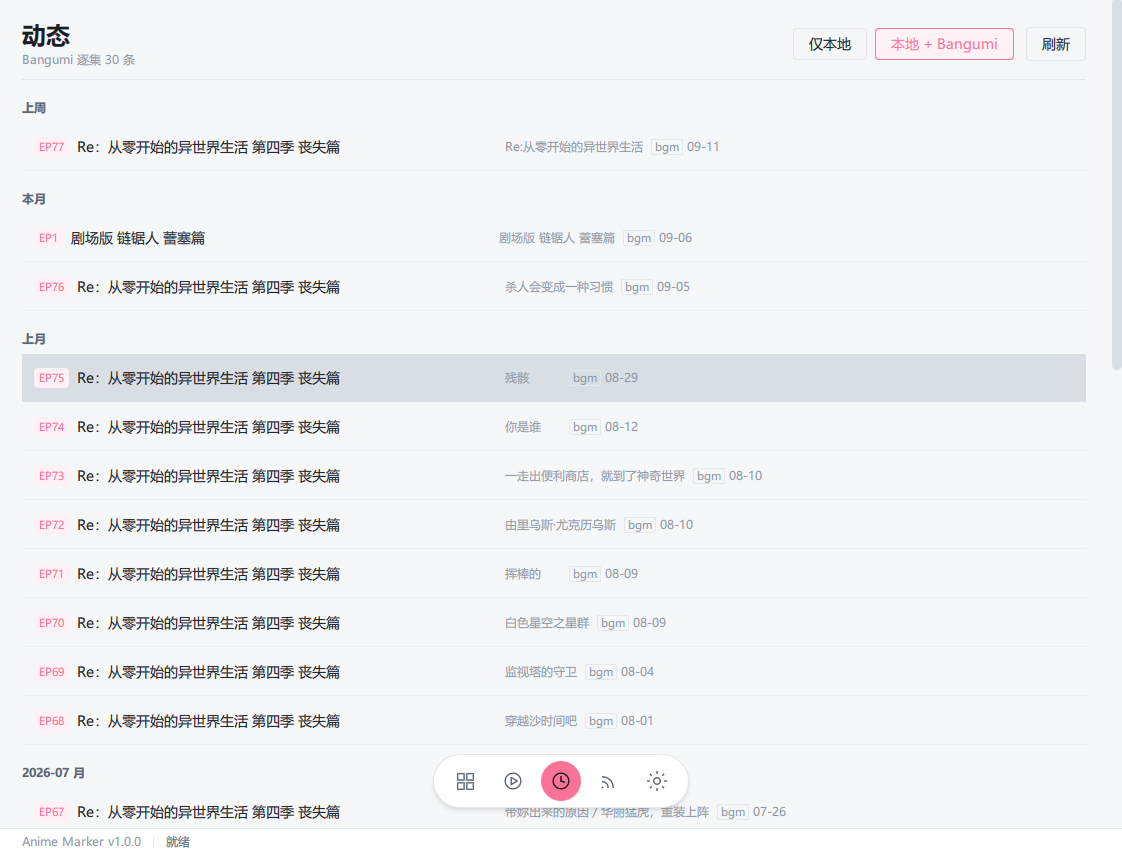
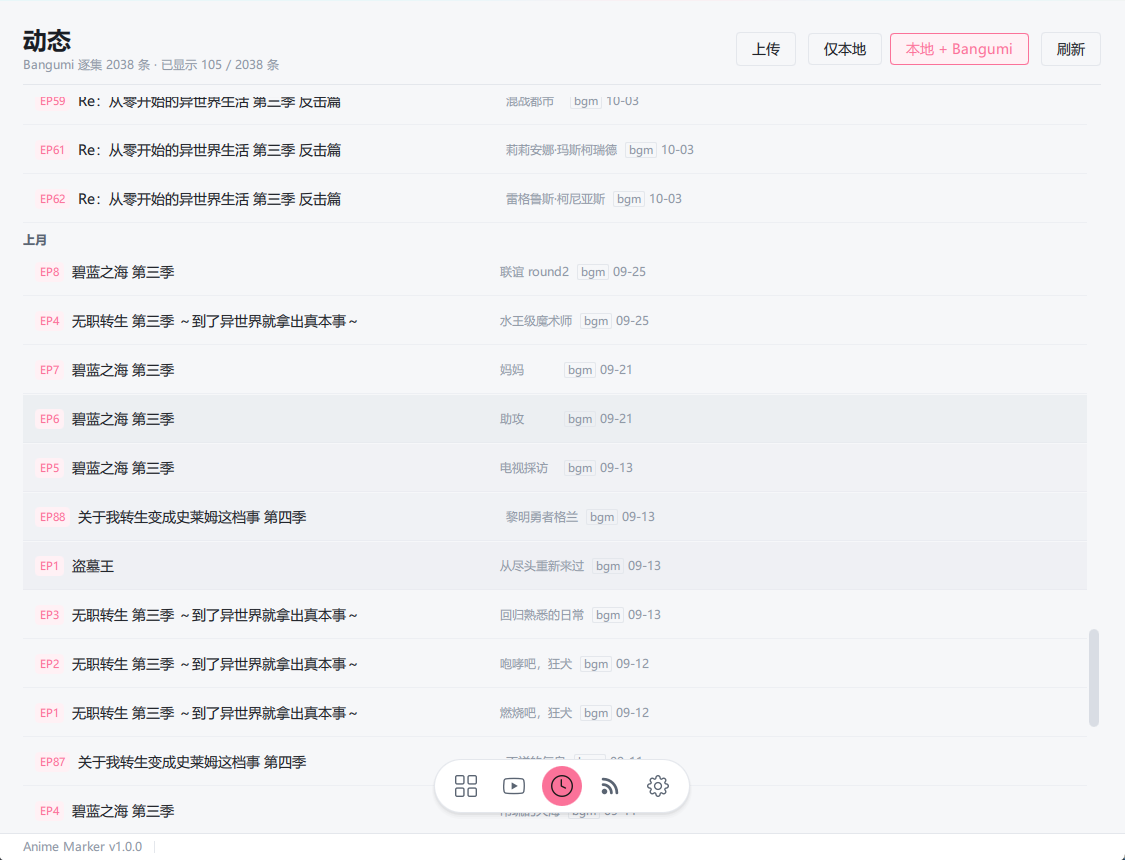
更新

diff --git a/README.md b/README.md
@@ -1,45 +1,46 @@
 # Anime-Marker
 
-Windows 桌面端本地动漫管理 + Bangumi 进度同步 + PotPlayer 播放联动工具。
+Windows 桌面端本地动漫管理 + Bangumi 进度同步 + RSS 自动下载工具。
 
-用 Python + PySide6（QML 界面）写成，把自己硬盘上的动画和 Bangumi 上的观看记录对起来：
-**自动匹配条目 → 一键播放（可联动插帧）→ 看完自动标记 → 在应用里回看观看动态**。
+Python + PySide6（QML 界面）。核心闭环：
+**扫描匹配 → 播放（可联动插帧）→ 看完自动标记 → RSS 自动追番下载**。
 
 ---
 
 ## 功能特性
 
-**媒体库与海报墙**
+**媒体库**
 
-- 扫描本地目录（支持多个根目录，分号分隔），自动提取标题、季数、集数
-- 调 Bangumi 搜索接口逐个匹配，按匹配度打分；低分条目进「待确认」，可手动指定或重新匹配
-- 海报墙支持**平铺 / 按系列聚合**两种展示；封面下载后本地缓存，断网也能出图
-- 条目详情页：集列表、已看进度、播放、重新匹配
+- 扫描本地目录（多个根目录用 `;` 分隔），提取标题、季数、集数
+- 调 Bangumi 搜索接口自动匹配，按分数判定；低分条目进「待确认」，可手动指定或重新匹配
+- 海报墙支持**平铺 / 按系列聚合**；封面本地缓存，断网也能出图
+- 详情页：集列表、观看进度、播放、重新扫描、重新匹配
 
 **播放联动**
 
 - 用 PotPlayer 打开（外部进程，不内置播放器）
-- 可联动 Lossless Scaling（小黄鸭）自动开插帧
-- 通过 PotPlayer 原生接口读播放位置（不依赖窗口标题），到阈值（默认 95%）自动记录并同步
+- 可选联动 Lossless Scaling（小黄鸭）自动开插帧
+- 经 PotPlayer 原生接口读播放位置（不依赖窗口标题），到阈值（**默认 90%**）自动记录
 
-**Bangumi 集成**
+**Bangumi 同步**
 
-- 在看页：列出正在追的番（整部番状态为「在看」），与本地区目关联；
-  点行进详情、看「下一集」、把本地记录「上传」到 Bangumi
-- 动态页：**逐集观看时间线** —— 本地播放记录（tag `本地`）与 Bangumi 逐集标记（tag `bgm`）混排，
-  同一集两边都有时合并成一行、两个 tag 同时显示；按天分组；覆盖**全部收藏状态**，向下滚动可加载更多
-- 支持「本地 + Bangumi」与「仅本地」两种视图；点行进详情，返回回到来源页
+- 在看页：列出正在追的番，可看「下一集」、把本地记录「上传」补传
+- 动态页：**逐集观看时间线**，本地记录（tag `本地`）与 Bangumi 标记（tag `bgm`）混排、按天分组
+- 详情页可设收藏状态（想看 / 看过 / 在看 / 搁置 / 抛弃）并同步 Bangumi
+- **自动完结**：一部番每集都看过后，自动把条目标为「看过」并同步（可关）
 
-**RSS 订阅与自动下载**
+**RSS 自动下载**
 
-- 管理 RSS 源（Mikan / dmhy 等标准 RSS 2.0 / Atom），按规则筛选
-- 三层查重后推送 qBittorrent 下载（本程序不实现 BT 协议，只调 qB 的 Web UI API）
+- 管理 RSS 源，每个订阅独立配置判新规则（**只下新集** / **全部下载**）
+- **两层查重**（本地媒体库 / qBittorrent 现有任务），推送 qBittorrent Web UI 下载
+- **下载器**：标题必须包含 / 必须不包含过滤、指定保存位置、**实时预览会下载哪些集**
+- 保存位置支持**按系列归位**（同系列各季下到 `番名\季` 子目录）
+- 无人值守：程序启动即检查，之后按间隔轮询（总开关可关）
 
 **其他**
 
-- 亮色 / 暗色主题 + 可换主题色
-- 全离线可用：收藏、集级记录、封面都有本地缓存
-- 网络失败有分类提示（区分「服务端故障」与「本地链路/代理问题」，见下方常见问题）
+- 亮/暗主题 + 可换主题色
+- 网络失败分类提示（区分服务端故障与本地链路/代理问题）
 
 ---
 
@@ -48,11 +49,11 @@ Windows 桌面端本地动漫管理 + Bangumi 进度同步 + PotPlayer 播放联
 | 项 | 要求 |
 | --- | --- |
 | 系统 | Windows 10 / 11（依赖 `win32gui` 读播放器窗口与播放位置）|
-| Python | **3.10 或更高**（用到 `X \| None` 等新语法）|
+| Python | **3.10+**（用到 `X \| None` 语法）|
 | PotPlayer | 播放功能需要（[下载](https://potplayer.daum.net/)）|
-| Lossless Scaling | 可选，用于自动开插帧 |
-| qBittorrent | 可选，订阅自动下载需要（需开启 Web UI）|
-| Bangumi 账号 | 可选，但「收藏 / 动态」需要 Access Token |
+| Lossless Scaling | 可选，自动插帧 |
+| qBittorrent | 可选，RSS 下载需要（需开启 Web UI）|
+| Bangumi Token | 可选，收藏 / 动态 / 自动上传需要 |
 
 ## 安装与运行
 
@@ -63,102 +64,59 @@ python main.py
 
 ## 首次配置
 
-在「设置」页填写以下内容后点击「保存并扫描」：
+「设置」页填写后点「保存并扫描」：
 
 | 配置项 | 说明 |
 | --- | --- |
-| **Bangumi Token** | 获取地址：**<https://next.bgm.tv/demo/access-token>**（请勾选「读取收藏」权限，否则收藏列表无法拉取） |
-| Bangumi 用户名 | 收藏列表需要；留空则尝试用 Token 解析 |
-| 媒体库根目录 | 本地动漫所在目录，多个用英文分号 `;` 分隔 |
+| **Bangumi Token** | 获取：<https://next.bgm.tv/demo/access-token>（勾选「读取收藏」权限）|
+| 媒体库根目录 | 本地动漫所在目录，多个用 `;` 分隔 |
 | PotPlayer 路径 | `PotPlayerMini64.exe` |
-| 小黄鸭路径 | `LosslessScaling.exe`（可选，用于自动开启插帧） |
-| qBittorrent | 订阅自动下载需要；需在 qBittorrent 中开启 Web UI |
-| 代理 | 可选。国内网络访问 `bgm.tv` 可能需要，见「常见问题」 |
+| 小黄鸭路径 | `LosslessScaling.exe`（可选）|
+| qBittorrent | 地址 / 端口 / 用户名 / 密码；可选填**程序路径**用于连不上时自动启动 |
+| 代理 | 可选，国内访问 `bgm.tv` / `api.bgm.tv` 可能需要 |
 
 ### 关于「看完自动标记」
 
-**不需要任何 PotPlayer 设置** —— 程序通过 PotPlayer 的原生接口直接读播放位置
-（`WM_USER` 消息，毫秒级），到阈值（默认 95%）就记录：
+**不需要任何 PotPlayer 设置** —— 程序通过原生接口直接读播放位置（`WM_USER` 消息），
+到阈值（默认 **90%**）就记录：
 
-1. **先写本地**：这一集立刻进入「动态」页，来源标记为 `本地`；
-2. **再同步 Bangumi**：成功则该行同时带上 `bgm` 标记（两个 tag = 已同步）；
-   失败不影响本地记录，之后可以在「动态」页点「上传」补传。
+1. **先写本地**：这一集立刻进入「动态」页，来源标记 `本地`；
+2. **再同步 Bangumi**：成功则该行同时带 `bgm` 标记；失败不影响本地记录，
+   之后可在「动态 → 上传」补传。
 
-> 早期版本读的是 PotPlayer **窗口标题**里的播放时间，但实测（2026-09）该版本
-> 并不会把时间放进标题（`F5 → 基本 → 消息 → 在屏幕上显示播放信息` 只影响画面上的
-> OSD ✗），于是自动标记从未生效 —— 现已改用原生接口。
+「设置 → Bangumi → 自动上传」控制第 2 步：关掉只记本地（来源只有 `本地`），
+**不会丢记录**，只是延迟同步。
 
-**「设置 → Bangumi → 自动上传」**控制第 2 步：
+### RSS 订阅怎么用
 
-- **开（默认）**：看完立刻同步，动态页马上出现 `bgm` 标记；
-- **关**：只记本地（来源 tag 只有「本地」），什么时候上传由你用
-  「动态 → 上传」小窗决定 —— **关掉不会丢记录**，只是延迟同步。
+1. 订阅页「添加订阅」：填名称、RSS 地址、判新规则
+2. 点「绑定条目」关联本地番剧；没有对应条目时可用「新建并绑定」直接建一个
+3. 点「**下载器**」配置标题过滤与保存位置 —— **必须点保存，该订阅才会开始下载**
+4. 点「立即检查」立即跑一次；开启「自动轮询」（设置页）则启动时与定时自动跑
 
-可选的显示设置（与自动标记无关，纯粹看着方便）：`F5 → 基本 → 消息` →
-勾选「在屏幕上显示播放信息」→「播放时间」选「播放时间 / 全部时间」，
-画面上会出现 `00:12:34 / 00:24:00 (53%)` 的叠加信息。
+> 判新规则的差别：「只下新集」会先查本地与 qBittorrent，已有的跳过；
+> 「全部下载」两层都不查，把订阅源里的内容全部下发一遍（适合重新拉一份完整资源）。
 
-### 把本地观看记录上传到 Bangumi
+### 让小黄鸭自动开插帧
 
-**动态页右上角「上传」**（在「仅本地」左边）→ 弹出小窗，列出**本地看过、
-Bangumi 还没标**的动漫，勾选后批量补传（也有「全选」）：
+以下四条要**同时**满足，缺一条就会"小黄鸭起来了但不补帧"：
 
-- **幂等**：只传差集，重复点不会重复提交；上次失败的那些再点一次也只补它们；
-- 本地看过、但**缺少 Bangumi 集号**的集无法补传（扫描时没拿到集数元数据），
-  小窗里会逐条标出"另有 N 集缺 Bangumi 集号，会跳过"；
-- 传完会自动让这些条目的集级记录重新同步一次，动态页里对应的行立刻会多出
-  `bgm` 标记（原来是只有「本地」tag）。
-
-### 让小黄鸭（Lossless Scaling）自动开插帧
-
-用本程序播放时联动补帧，下面四条要**同时**满足，缺一条就会出现"小黄鸭起来了但不补帧"：
-
-**1. 把小黄鸭的配置绑到 PotPlayer**（最关键、最容易漏）
-
-小黄鸭左侧 `+` 新建配置（或选中现有配置点铅笔编辑）→ 在 **「筛选」** 里点「浏览」→ **选 `PotPlayerMini64.exe`** → 保存。
-
-> 小黄鸭是**按"跑起来的是哪个 exe"匹配配置**的（不是窗口标题、也不是视频文件）。「筛选」留空或指错，PotPlayer 就永远只会用「默认」那条配置。
-> **验证**：播放时看小黄鸭窗口底部状态栏的 `配置:` 一行 —— 显示你那条配置的名字 = 生效；显示 `"默认"` = 没匹配上。
-
-**2. 该配置里把「帧生成」打开**
-
-「帧生成 → 类型」不能是「关」（新建的配置常常是关的）；只补帧的话「缩放」可以保持关。
-「捕获 → 捕获 API」保持 `DXGI`，「光标 → 限制光标」建议开。
-
-**3. 快捷键两边一致**
-
-小黄鸭「设置 → 缩放快捷键」的值，要和应用「设置 → 插帧快捷键」相同。
-
-> ⚠ **不要用 `Ctrl+Alt+L`** —— 那是 **QQ 的「锁定 QQ」全局快捷键**：会被 QQ 抢注（小黄鸭也设不上），而本程序照发就会**把 QQ 锁掉**。
-> 不想依赖快捷键的话，可以在新建配置时打开 **「自动缩放」**，该程序运行时小黄鸭会自动应用配置。
-
-**4. PotPlayer 用 D3D11 类视频渲染器**
-
-`F5 → 视频 → 视频渲染器`。小黄鸭靠 DXGI 抓画面，其他渲染器可能抓不到。
+1. **把小黄鸭的配置绑到 PotPlayer**（最关键）：小黄鸭里新建配置 →「筛选」→ 浏览选 `PotPlayerMini64.exe`。
+   它按「跑的是哪个 exe」匹配配置。验证：播放时看小黄鸭状态栏 `配置:` 一行。
+2. **该配置里打开「帧生成」**（新建配置常常是关的），「捕获 API」保持 `DXGI`。
+3. **快捷键两边一致**：小黄鸭「设置 → 缩放快捷键」= 应用「设置 → 插帧快捷键」。
+   ⚠ 不要用 `Ctrl+Alt+L` —— 那是 QQ 的「锁定 QQ」全局快捷键，会被抢注并**把 QQ 锁掉**。
+4. **PotPlayer 用 D3D11 类视频渲染器**（`F5 → 视频 → 视频渲染器`）。
 
 ## 截图
 
-**海报墙** —— 封面本地缓存，断网也能出图
+| 海报墙 | 动态 |
+| --- | --- |
+| ![海报墙](docs/screenshots/poster-wall.png) | ![动态](docs/screenshots/timeline.png) |
 
-![海报墙](docs/screenshots/poster-wall.png)
-
-**动态** —— 本地播放记录与 Bangumi 逐集标记混排的时间线
-
-![动态](docs/screenshots/timeline.png)
-
-**条目详情** —— 集列表、已看进度、播放与重新匹配
-
-![详情页](docs/screenshots/detail.png)
-
-**设置** —— Token / 路径 / 阈值 / 代理 / 主题
-
-![设置](docs/screenshots/settings.png)
-
----
-
-## 常见问题
-
-更新中
+| 详情页 | 设置 |
+| --- | --- |
+| ![详情页](docs/screenshots/detail.png) | ![设置](docs/screenshots/settings.png) |
 
 ---
 
@@ -170,32 +128,27 @@ app/qml/                QML 界面（页面、组件、Theme 单例）
 app/bridges/            QML ↔ Python 桥接层（Property / Signal / Slot）
 app/core/               业务逻辑（scanner / matcher / bangumi_api / monitor /
                         launcher / database / config / rss_* / qbittorrent_api）
-app/utils/              工具（paths / logger / cover_cache / title_parser / bgm_log）
-resources/icons/        图标
-data/                   运行时数据（SQLite 库、封面缓存、日志）—— 自动生成，不入库
+app/utils/              工具（paths / logger / cover_cache / title_parser）
+resources/icons/        图标（SVG）
+data/                   运行时数据（SQLite 库、封面缓存、日志）—— 自动生成
 ```
-
-## 打包（可选）
-
-```cmd
-pip install -r requirements-dev.txt
-pyinstaller anime_marker.spec --noconfirm --clean
-```
-
-产物在 `dist/AnimeMarker/`（单目录形式，含 Qt 运行库与许可证文件）。
 
 ---
 
 ## 第三方许可
 
-本项目以 **MIT** 发布（见 [LICENSE](LICENSE)）。运行时依赖及其许可证见 **[THIRD_PARTY_LICENSES.md](THIRD_PARTY_LICENSES.md)**，其中 **PySide6（LGPLv3）** 对分发有额外要求，打包时已把许可证文件一并放进产物目录。
+本项目以 **MIT** 发布（见 [LICENSE](LICENSE)）。
+运行时依赖的许可证说明见 **[THIRD_PARTY_LICENSES.md](THIRD_PARTY_LICENSES.md)**，
+各许可证原文在 `licenses/`，打包时一并放入产物目录。
+
+> **PySide6 是 LGPLv3**，对分发有额外要求：需随附许可证全文（已包含）。
 
 ## 声明
 
-- 本程序与 Bangumi 官方无关，通过其公开 API 读写你自己的观看记录：
-  **只会把「你看完的集」标记为看过**（看完自动同步，或用「上传」补传），
-  不修改收藏状态、评分、吐槽等任何其他内容。
-- API 调用遵守 Bangumi 的 [User-Agent 约定](https://github.com/bangumi/api/blob/master/docs-raw/user%20agent.md)（见 `app/__init__.py` 的 `USER_AGENT`）。
+- 本程序与 Bangumi 官方无关，通过其公开 API 读写**你自己的**观看记录：
+  只会把「你看完的集」标记为看过，以及在你主动操作时修改该条目的收藏状态；
+  不涉及评分、吐槽等其他内容。
+- API 调用遵守 Bangumi 的 [User-Agent 约定](https://github.com/bangumi/api/blob/master/docs-raw/user%20agent.md)。
 - 请自行确保所管理媒体内容的来源合法。
 
 ## 参与

diff --git a/THIRD_PARTY_LICENSES.md b/THIRD_PARTY_LICENSES.md
@@ -1,7 +1,8 @@
-# licenses/
+# THIRD_PARTY_LICENSES.md
 
-本目录存放**运行时依赖**的许可证与版权声明，随发行包一起分发
-（`anime_marker.spec` 已把整个目录打进 `dist/AnimeMarker/`）。
+本文件说明**运行时依赖**的许可证与版权声明。正文提到的各许可证**原文**
+存放在同级的 [`licenses/`](licenses/) 目录，两者一起随发行包分发
+（`anime_marker.spec` 已把它们打进 `dist/AnimeMarker/`）。
 
 | 文件 | 对应依赖 | 许可证 | 来源 |
 | --- | --- | --- | --- |
